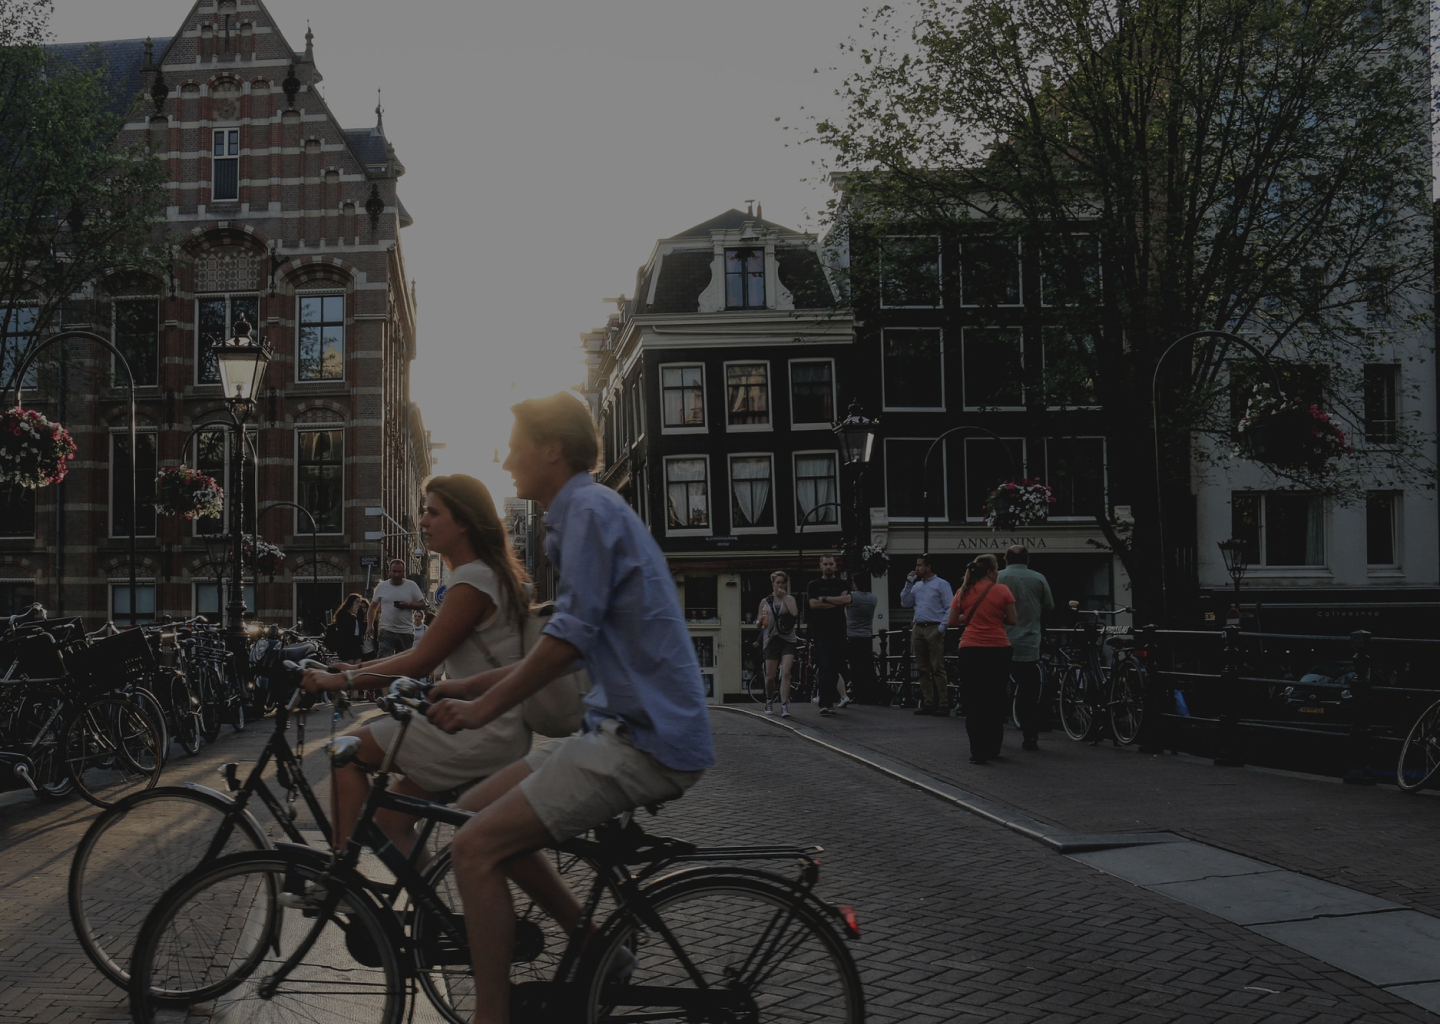
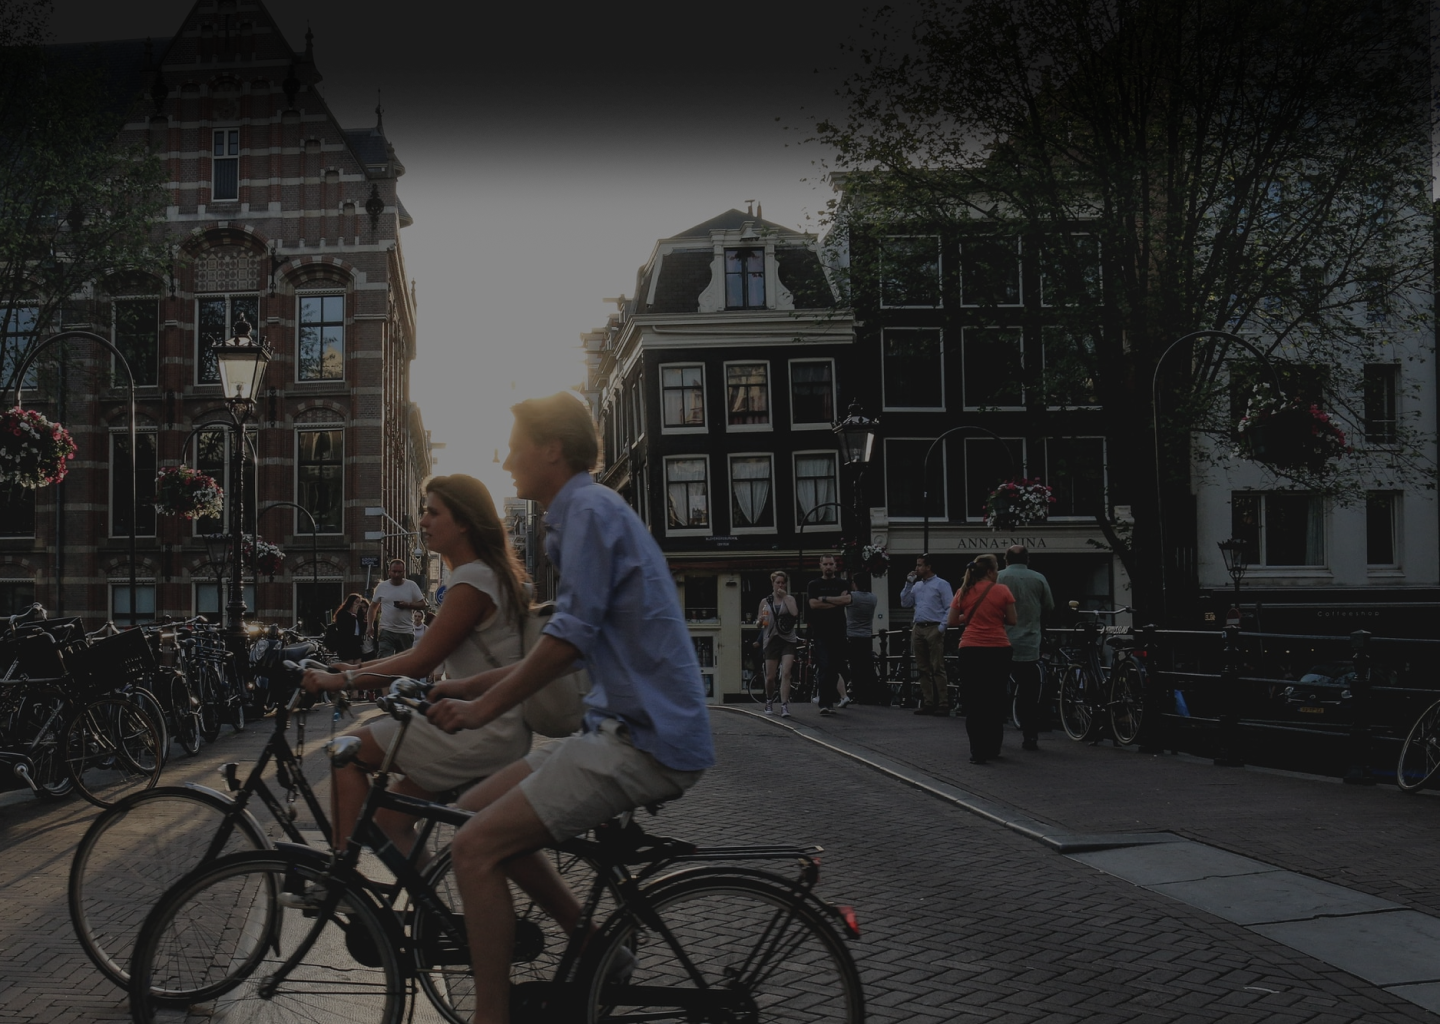
V3
contact form finished

Changed region(s): [[0.0, 0.0, 1.0, 0.1875]]

diff --git a/pages/contact/index.js b/pages/contact/index.js
@@ -5,36 +5,88 @@ import Head from "next/head";
 import { Nav } from "../../components/nav";
 import { Partners } from "../../components/partners";
 import { Footer } from "../../components/footer";
+import { Button } from "../../components/button";
 
 export default function Contact() {
     return (
         <>
             <Head />
             <Nav />
-            <section className="flex flex-col tracking-widest ">
-                <div className="grid grid-cols-2 mt-44 gap-8">
-                    <div className="ml-44">
+            <section className="flex flex-col tracking-widest">
+                <div className="grid grid-cols-2 mt-44 mb-24 gap-8">
+                    <div className="ml-64 mt-36">
                         <p className="text-3xl">Contact gegevens</p>
-                        <p className="mt-12 text-lg">MyHealth BV</p>
+                        <p className="mt-12 text-lg">Gezondd BV</p>
                         <p className="text-lg">Koninginnegracht 19</p>
                         <p className="text-lg">2514 AB ’s-Gravenhage</p>
-                        <p className="text-lg">Tel: 085 015 0020</p>
-
-                        <p className="text-lg">Kamer van Koophandel: 75655489</p>
-
+                        <p className="text-lg mb-6">Tel: 085 015 0020</p>
+                        <p className="text-lg mb-6">KVK: 75655489</p>
                         <p className="text-lg">BTW nummer: NL860354519B01</p>
                         <p className="text-lg">Banknummer: NL02 RABO 0345 4696 90</p>
                     </div>
-                    <div className="">
+                    <div className="justify-self-end">
                         <iframe
-                            width="600"
-                            height="450"
+                            width="800"
+                            height="650"
                             loading="lazy"
                             allowfullscreen
                             src="https://www.google.com/maps/embed/v1/search?q=Koninginnegracht%2019%2C%20Den%20Haag%2C%20Nederland&key=AIzaSyDaM3DN_oRGrTHmGYY48JsJ2mU-EhvgYI8"
                         ></iframe>
                     </div>
                 </div>
+            </section>
+            <section className="grid tracking-widest bg-gray-light">
+                <div className="ml-64 tracking-widest leading-relaxed">
+                    <p className="text-3xl my-14">Neem contact met ons op</p>
+                </div>
+                <form className="ml-64" action="#" method="POST">
+                    <div class="py-5">
+                        <div class="grid grid-cols-2 gap-6 text-gray-300">
+                            <div class="col-span-1">
+                                <label for="volledige naam" class="block text-lg">
+                                    Volledige naam *
+                                </label>
+                                <input
+                                    type="text"
+                                    name="first-name"
+                                    id="first-name"
+                                    autocomplete="full-name"
+                                    placeholder="Vul hier je volledige naam in"
+                                    class="mt-1 focus:ring-indigo-500 focus:border-indigo-500 block w-3/5 bg-gray-light sm:text-sm border-b-2 border-gray-300"
+                                ></input>
+                            </div>
+                            <div class="col-span-1">
+                                <label for="email" class="block text-lg">
+                                    Email *
+                                </label>
+                                <input
+                                    type="email"
+                                    name="email"
+                                    id="email"
+                                    autocomplete="email"
+                                    placeholder="Vul hier je email addres in"
+                                    class="mt-1 focus:ring-indigo-500 focus:border-indigo-500 block w-3/5 bg-gray-light sm:text-sm border-b-2 border-gray-300"
+                                ></input>
+                            </div>
+                            <div class="col-span-2 mt-10">
+                                <label for="bericht" class="block text-lg">
+                                    Bericht *
+                                </label>
+                                <input
+                                    type="text"
+                                    name="bericht"
+                                    id="bericht"
+                                    placeholder="Vul hier uw bericht in..."
+                                    class="mt-1 focus:ring-indigo-500 focus:border-indigo-500 block w-4/5 bg-gray-light sm:text-sm border-b-2 border-gray-300"
+                                ></input>
+                            </div>
+                        </div>
+                        <Button
+                            label="Verzenden"
+                            className="bg-blue-aqua h-14 w-52 my-12 rounded-full text-white drop-shadow-lg tracking-widest"
+                        />
+                    </div>
+                </form>
             </section>
             <Partners />
             <Footer />

diff --git a/components/nav/index.js b/components/nav/index.js
@@ -4,7 +4,7 @@ import Link from "next/link";
 export class Nav extends React.Component {
     render() {
         return (
-            <nav className="fixed bg-white w-screen z-10">
+            <nav className="fixed w-screen z-10">
                 <ul className="flex flex-row my-8 mx-10 gap-20 text-base ">
                     <li className="justify-self-center">
                         <Link href="/">
@@ -19,46 +19,46 @@ export class Nav extends React.Component {
                     </li>
                     <li className="mt-1.5 text-center  ml-8">
                         <Link href="/over">
-                            <a className="text-black">Over Gezondd</a>
+                            <a className="text-white">Over Gezondd</a>
                         </Link>
                     </li>
                     <li className="mt-1.5 text-left mr-4">
                         <Link href="/werkgever">
-                            <a className="text-black hover:text-white">Werkgever</a>
+                            <a className="text-white hover:text-white">Werkgever</a>
                         </Link>
                     </li>
                     <li className="mt-1.5 text-left ml-4">
                         <Link href="/werknemer">
-                            <a className="text-black hover:text-white">Werknemer</a>
+                            <a className="text-white hover:text-white">Werknemer</a>
                         </Link>
                     </li>
                     <li className="mt-1.5 text-center ml-4">
                         <Link href="/zelfstandige-ondernemer">
-                            <a className="text-black hover:text-white tracking-tight">
+                            <a className="text-white hover:text-white tracking-tight">
                                 Zelfstandige/Ondernemer
                             </a>
                         </Link>
                     </li>
                     <li className="mt-1.5 text-center justify-self-center ml-4">
                         <Link href="/casemanager">
-                            <a className="text-black hover:text-white">Casemanager</a>
+                            <a className="text-white hover:text-white">Casemanager</a>
                         </Link>
                     </li>
                     <li className="mt-1.5 text-center justify-self-center ml-2">
                         <Link href="/bedrijfsarts-arboprofessionals">
-                            <a className="text-black hover:text-white tracking-tighter">
+                            <a className="text-white hover:text-white tracking-tighter">
                                 Bedrijfsarts/Arboprofessionals
                             </a>
                         </Link>
                     </li>
                     <li className="mt-1.5 text-center justify-self-center mr-2">
                         <Link href="/ika-ned">
-                            <a className="text-black hover:text-white">IKA Ned</a>
+                            <a className="text-white hover:text-white">IKA Ned</a>
                         </Link>
                     </li>
                     <li className="mt-1.5 text-center justify-self-start">
                         <Link href="/contact">
-                            <a className="text-black hover:text-white">Contact</a>
+                            <a className="text-white hover:text-white">Contact</a>
                         </Link>
                     </li>
                 </ul>

diff --git a/pages/over/index.js b/pages/over/index.js
@@ -88,20 +88,20 @@ export default function Over() {
                 <div className="mx-96">
                     <p className="text-3xl">Landelijke dienstverlening</p>
                     <p className="my-6">Gezondd werkt vanuit drie vaste locaties:</p>
-                    <div className="grid grid-cols-3 gap-14 mt-12 text-2xl">
+                    <div className="grid grid-cols-3 gap-20 mt-12 text-2xl">
                         <div className="relative bg-blue-aqua pt-8 rounded-2xl">
-                            <div className="bg-white w-full h-full text-center font-bold text-blue-aqua rounded-2xl p-16 z-10">
-                                Rotterdam
+                            <div className="bg-white w-full h-full text-center rounded-2xl p-8 z-10 drop-shadow-lg px-24 py-16">
+                                <p className="font-bold text-blue-aqua">Rotterdam</p>
                             </div>
                         </div>
                         <div className="relative bg-blue-aqua pt-8 rounded-2xl">
-                            <div className="bg-white w-full h-full text-center font-bold text-blue-aqua rounded-2xl p-16 z-10">
-                                Hilversum
+                            <div className="bg-white w-full h-full text-center rounded-2xl p-8 z-10 drop-shadow-lg px-24 py-16">
+                                <p className="font-bold text-blue-aqua">Hilversum</p>
                             </div>
                         </div>
-                        <div className="relative bg-blue-aqua pt-8 rounded-2xl">
-                            <div className="bg-white w-full h-full text-center font-bold text-blue-aqua rounded-2xl p-16 z-10">
-                                Den Haag
+                        <div className="relative bg-blue-aqua pt-8 rounded-2xl w-full h-full">
+                            <div className="bg-white w-full h-full text-center rounded-2xl p-8 z-10 drop-shadow-lg px-24 py-16">
+                                <p className="font-bold text-blue-aqua">Den Haag</p>
                             </div>
                         </div>
                     </div>

diff --git a/components/footer/index.js b/components/footer/index.js
@@ -40,7 +40,9 @@ export class Footer extends React.Component {
                         </div>
 
                         <div className="p-5 w-48 justify-self-center mt-16">
-                            <p className="uppercase text-gray-800 font-bold text-base mb-2">Links</p>
+                            <p className="uppercase text-gray-800 font-bold text-base mb-2">
+                                Links
+                            </p>
                             <p className="text-sm">Klachten regeling en Privacy reglement</p>
                         </div>
                     </div>
@@ -50,10 +52,16 @@ export class Footer extends React.Component {
                         </p>
                     </div>
                 </div>
-                <div className="fixed z-10 h-26 w-8 bottom-0 right-0 bg-gray-300">
-                    <img src="linkedin.png" className=""  alt="linkedin" />
-                    <img src="instagram.png" className="" alt="instagram" />
-                    <img src="twitter.png" className="" alt="twitter" />
+                <div className="fixed z-10 h-26 w-8 bottom-0 right-0 bg-gray-300 bg-opacity-50 rounded">
+                    <a href="https://www.linkedin.com/">
+                        <img src="linkedin.png" className="" alt="linkedin" />
+                    </a>
+                    <a href="https://www.instagram.com/">
+                        <img src="instagram.png" className="p-1" alt="instagram" />
+                    </a>
+                    <a href="https://www.twitter.com/">
+                        <img src="twitter.png" className="" alt="twitter" />
+                    </a>
                 </div>
             </footer>
         );

diff --git a/pages/index.js b/pages/index.js
@@ -90,7 +90,7 @@ export default function Home() {
                         onnodig tijdverlies rond verzuim en bepaling van arbeidsongeschiktheid
                         a.g.v. letselschade van uzelf of uw medewerker kunt voorkomen.
                     </li>
-                    <li className="mb-4">
+                    <li>
                         U te begeleiden bij diversiteitsvraagstukken op het gebied van verzuim,
                         ziekte, reïntegratie, gezondheidsbevordering & preventie of dreigende
                         arbeidsongeschiktheid. MyHealth beschikt over specifieke deskundigheid op
